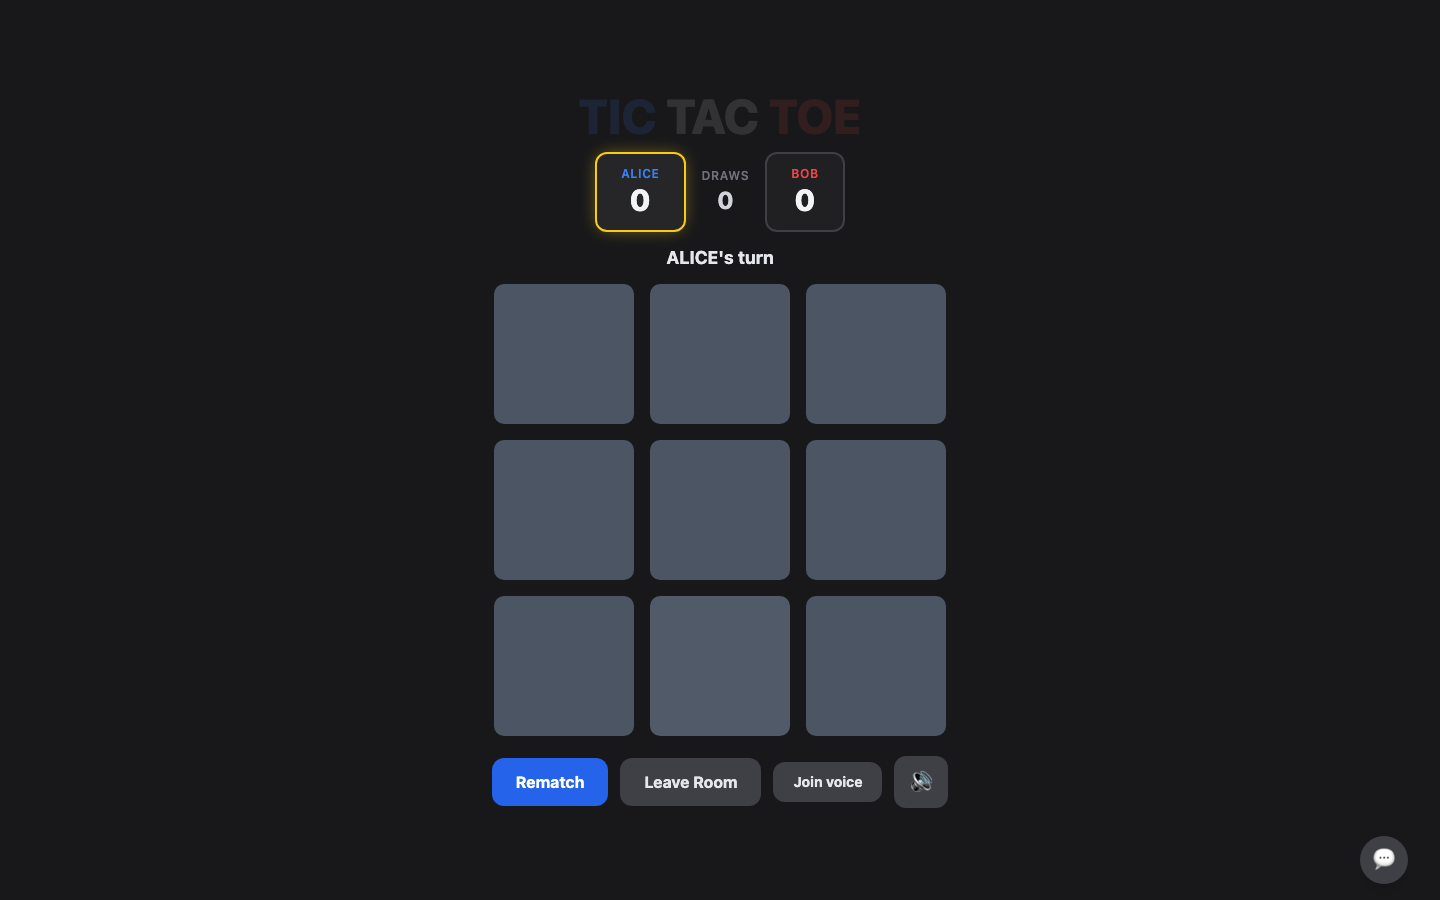
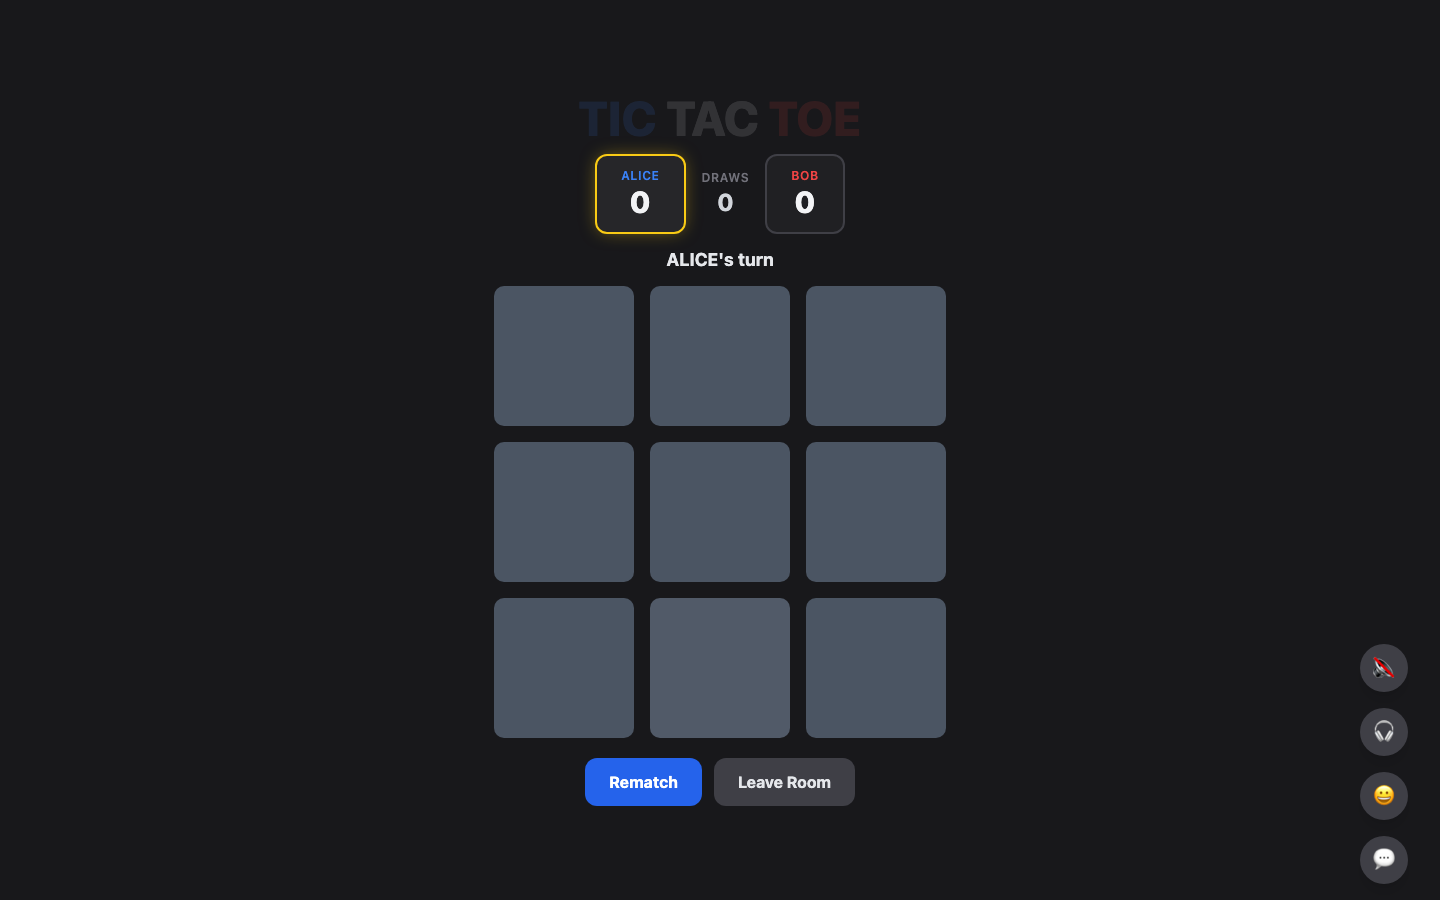
docs: update chat, emoji, voice controls and protocol

diff --git a/README.md b/README.md
@@ -42,9 +42,11 @@ Built test-first, phase by phase, on a game-scoped networking layer.
 - **Online rooms** — create/join with 6-character codes over WebSocket, or **Quick Play**
   matchmaking; perspective-aware results ("You win!" / "You lose!") that celebrate only on
   the winner's side
-- **In-game chat & emoji** — text chat and quick emoji reactions (🎉🔥😂👏💯😅🤔👀) with
-  floating bursts, works over every transport including BroadcastChannel
-- **Voice chat** — LiveKit-powered per-room audio, listen-only until you unmute
+- **In-game chat & emoji** — a slide-up chat panel plus a standalone quick-reactions bar
+  (🎉🔥😂👏💯😅🤔👀) with floating bursts on both sides; works over every transport
+  including BroadcastChannel
+- **Voice chat** — LiveKit-powered per-room audio behind icon controls (🎧 join, 🎤 mute,
+  participant count badge), listen-only until you unmute
 - **Coach hints** — pulsing highlight on the mathematically best cell
 - **Synthesized sounds** — place/win/lose/draw/invalid effects via the Web Audio API (no
   audio assets); mute persists across reloads
@@ -127,7 +129,7 @@ src/
   net/           protocol · transports · RoomSession · matchmaker · voice
   hooks/         useGame — engine wiring, AI scheduling, sounds, scores
   pages/         hub · start · queue · lobby · home
-  components/    Board · VoiceControls
+  components/    Board · VoiceControls · ChatPanel · QuickEmoji · EmojiBurstLayer
   sound/         Web Audio synth effects + persisted mute
   storage/       validated localStorage score persistence
 server/relay.ts  Node ws relay — room fan-out, /matchmake, /voice/token

diff --git a/docs/ARCHITECTURE.md b/docs/ARCHITECTURE.md
@@ -37,8 +37,8 @@ flowchart TB
 
     P1 --- BC
     P2 --- BC
-    P1 <-->|"moves · hello · heartbeats"| Relay
-    P2 <-->|"moves · hello · heartbeats"| Relay
+    P1 <-->|"moves · chat · hello · heartbeats"| Relay
+    P2 <-->|"moves · chat · hello · heartbeats"| Relay
     P1 <-->|"voice audio"| LK
     P2 <-->|"voice audio"| LK
     Relay -->|"POST /voice/token → JWT"| LK
@@ -206,6 +206,8 @@ Room messages (over any transport; `game` optional, defaults to `tictactoe`):
 | `rematch` / `rematch-start` | either / host | `roomCode, playerId?` |
 | `leave` | either | `roomCode, playerId` |
 | `ping` / `pong` | either (heartbeat) | `roomCode, playerId` |
+| `chat` | either | `roomCode, playerId, name, text` (≤ 200 chars) |
+| `emoji` | either | `roomCode, playerId, name, emoji` (fixed set) |
 
 Matchmaker messages (JSON over its own WebSocket):
 
